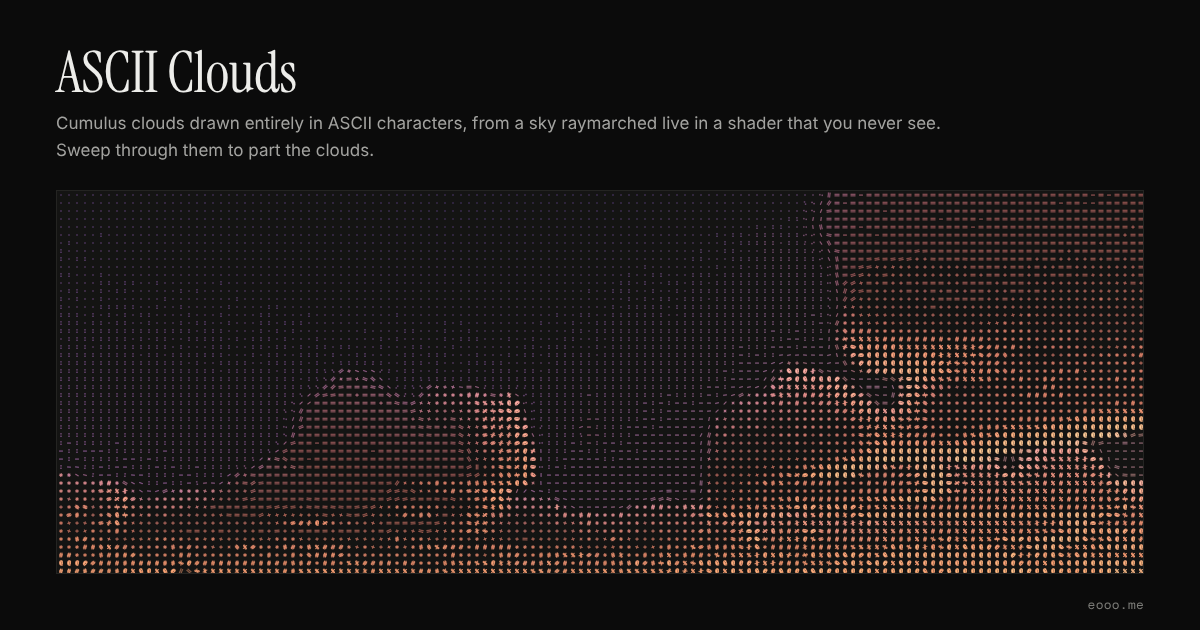
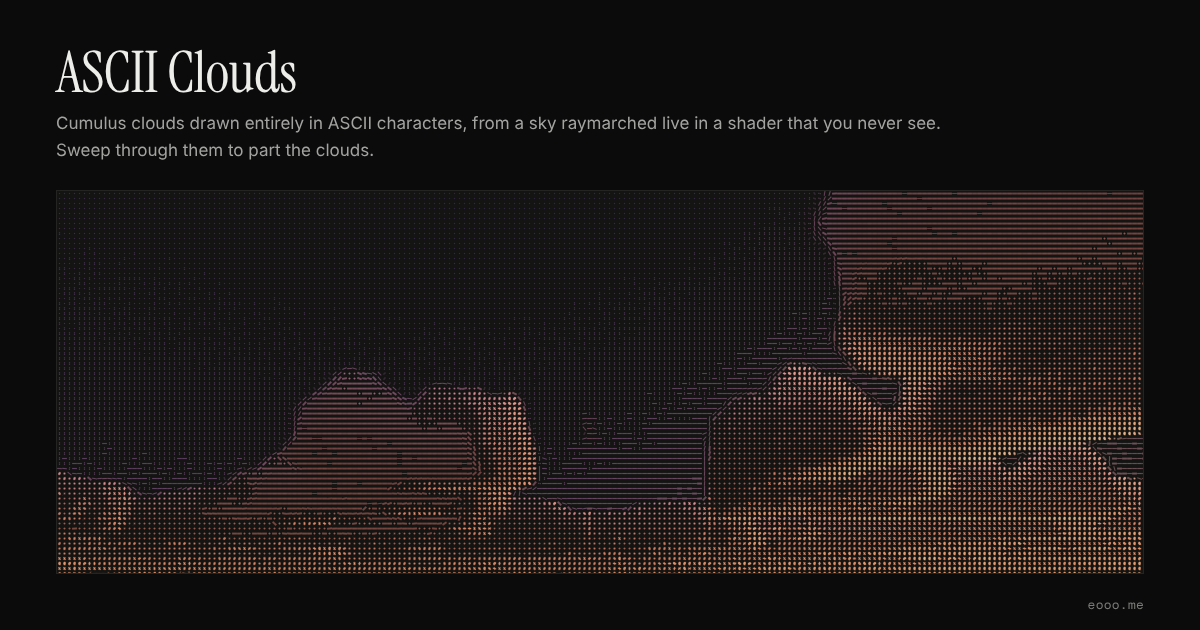
feat(lab): 五个字符画改成 5px 格子、横的字拉满整格，舞台不管主题都用深底 (#29)
浅色背景上字符画还是看不清，laken 比过 6px、5px 和深底以后定了 5px 加深底。
- 五个 ASCII 实验（Waves、Clouds、Coal、Sand、Black Hole）默认一格从 8px 改成 5px。
- 横的字 - ~ = 连描边一起拉到正好一格宽，左右两格首尾相接，连成一整道。
- index.md 加 dark 开关：写了 dark: true 的实验，舞台在服务端就带上 .always-dark，
  global.css 里手动深色那组颜色同时给它，舞台不管主题都是深底，实验一直按深色那套画。五个 ASCII 实验都开着。
- 同步改了 README、五个 prompt、og.mjs 的注释，重截五张分享图。

Claude-Session: https://claude.ai/code/session_01AtSjXJX7xpdrjdmPy7ukhw

diff --git a/src/labs/ascii-clouds/clouds.js b/src/labs/ascii-clouds/clouds.js
@@ -6,9 +6,9 @@
      2. 云（clouds）：镜头站在地上往前上方看，画面最下沿刚好是地平线，整块都是天。每个像素往天上打一条光线，
         在 1 到 2.6 公里高的云层里走 48 步：云底平、云顶圆（云越厚顶越高），再用一张 32³ 的立体噪声（几层 Worley 反过来，
         一团一团鼓起来的）把边咬碎；每步往太阳那边再取三个点，算这里被挡掉多少光，加上天光，远处被雾抹成地平线的颜色。
-        这张图只画到「一格两个像素」那么细（字一格 8px，再细也看不出来），比整屏画便宜几十倍。
+        这张图只画到「一格两个像素」那么细（字一格 5px，再细也看不出来），比整屏画便宜几十倍。
         底稿存颜色和这一格有多少云。
-     3. 合成（composite）：整块切成 8px 见方的格子，每格都有字，不留空：
+     3. 合成（composite）：整块切成 5px 见方的格子，每格都有字，不留空：
         按这一格的亮度从 . : - = + * # % @ 里挑（越亮越浓），天是淡的点，云是浓的字；
         字顺着明暗的等高线转，云边一圈的字绕着云走，跟海浪里字顺着浪头转是一个做法。
         深色主题是黄昏：太阳贴着地平线，云被照成金色、粉色，背光的地方是紫的，字就用底稿的颜色；
@@ -96,7 +96,7 @@ function makeDetail(n = 32) {   // 返回 { data, n }，传给显卡见 create()
 }
 
 // ---------- 字的图集 ----------
-// 一行 9 格，一格 64 见方（字要转，格子得是正方形），由淡到浓：. : - = + * # % @。每个字按墨迹居中，横线稍微拉宽一点，再描一圈边，笔画粗一点
+// 一行 9 格，一格 64 见方（字要转，格子得是正方形），由淡到浓：. : - = + * # % @。每个字按墨迹居中，横线 - = 拉满整格、左右首尾相接，再描一圈边，笔画粗一点
 const GLYPHS = [".", ":", "-", "=", "+", "*", "#", "%", "@"];
 const GROOVE = 64, GROOVE_LIFE = 4;   // 拨开的沟最多记几个点、一个点留几秒
 const T = 64;
@@ -109,11 +109,12 @@ function drawAtlas(c, stroke = [3, 3]) {   // stroke：横线 - =、别的字的
   GLYPHS.forEach((ch, i) => {
     const m = g.measureText(ch);
     const l = m.actualBoundingBoxLeft, r = m.actualBoundingBoxRight, up = m.actualBoundingBoxAscent, dn = m.actualBoundingBoxDescent;
-    const sx = ch === "-" || ch === "=" ? Math.max(1, Math.min(1.5, (0.8 * T) / (l + r))) : 1;
+    const lw = ch === "-" || ch === "=" ? stroke[0] : stroke[1];
+    const sx = ch === "-" || ch === "=" ? Math.max(1, T / (l + r + lw)) : 1;   // 横线连描边一起拉到正好一格宽：左右两格的字首尾相接，连成一整道
     g.save();
     g.translate(i * T + T / 2, T / 2); g.scale(sx, 1);
     const x = -(r - l) / 2, y = (up - dn) / 2;
-    g.lineWidth = ch === "-" || ch === "=" ? stroke[0] : stroke[1];
+    g.lineWidth = lw;
     g.fillText(ch, x, y); g.strokeText(ch, x, y);
     g.restore();
   });
@@ -325,7 +326,7 @@ const COMP_FS = /* glsl */ `
  * @param {HTMLCanvasElement} canvas
  * @param {{ period?: number, cell?: number, fps?: number }} [opts]
  */
-function create(canvas, { period = 12000, cell = 8, fps = 30 } = {}) {
+function create(canvas, { period = 12000, cell = 5, fps = 30 } = {}) {
   const gl = context(canvas);   // 没有 WebGL2 就抛错，交给调用的人接
   const software = softwareGL(gl);
   const motion = matchMedia("(prefers-reduced-motion: reduce)");

diff --git a/src/labs/ascii-waves/waves.js b/src/labs/ascii-waves/waves.js
@@ -6,7 +6,7 @@
         水的亮度（浪顶比浪谷亮，迎着光的浪面、反光更亮，远处被雾抹到中间）、浪头在画面上的走向、浪花有多浓。
         浪花只在三道最大的浪的浪尖上一簇一簇地起，往后拖一段渐淡的尾巴，每簇自己冒出来、再散掉；
         浪尖挤到一起（雅可比行列式变小）的地方、手划过的尾迹上也有。
-     2. 合成（composite）：整块切成 8px 见方的格子，每格都有字，不留空：
+     2. 合成（composite）：整块切成 5px 见方的格子，每格都有字，不留空：
         浪花够浓的格子画浪花的字 . : * o @（越浓越大），深色主题是白的，浅色主题是留白里淡淡的蓝，不转；浪花边上零星撒几个点当飞沫。
         别的格子画水：按亮度从 - ~ = 里挑，颜色沿一条色带走（深色主题越亮越浓，由深蓝到浅蓝；浅色主题反过来越暗越浓，由浅灰蓝到深蓝），
         字再转到浪头的走向上，一道道浪就被横着的字描出来，尾迹推出去的浪上的字也顺着那道浪转，
@@ -94,8 +94,8 @@ function makeWaves(period) {
 }
 
 // ---------- 字的图集 ----------
-// 一行 8 格，一格 64 见方（字要转，格子得是正方形）。前 3 个是水，由淡到浓 - ~ =，横着拉宽，一格接一格连成一道道浪；
-// 后 5 个是浪花，由淡到浓 . : * o @，不拉宽。每个字按墨迹居中，再描一圈边，笔画粗一点
+// 一行 8 格，一格 64 见方（字要转，格子得是正方形）。前 3 个是水，由淡到浓 - ~ =，横着拉满整格，左右首尾相接，连成一道道浪；
+// 后 5 个是浪花，由淡到浓 . : * o @，不拉。每个字按墨迹居中，再描一圈边，笔画粗一点
 const GLYPHS = ["-", "~", "=", ".", ":", "*", "o", "@"], WATER = 3;
 const T = 64;
 function drawAtlas(c, stroke = [4.5, 3]) {
@@ -107,11 +107,12 @@ function drawAtlas(c, stroke = [4.5, 3]) {
   GLYPHS.forEach((ch, i) => {
     const m = g.measureText(ch);
     const l = m.actualBoundingBoxLeft, r = m.actualBoundingBoxRight, up = m.actualBoundingBoxAscent, dn = m.actualBoundingBoxDescent;
-    const sx = i < WATER ? Math.max(1, Math.min(1.8, (0.84 * T) / (l + r))) : 1;
+    const lw = i < WATER ? stroke[0] : stroke[1];   // 水的字是细线，描粗一点才压得住整块
+    const sx = i < WATER ? Math.max(1, T / (l + r + lw)) : 1;   // 横线连描边一起拉到正好一格宽：左右两格的字首尾相接，连成一整道
     g.save();
     g.translate(i * T + T / 2, T / 2); g.scale(sx, 1);
     const x = -(r - l) / 2, y = (up - dn) / 2;
-    g.lineWidth = i < WATER ? stroke[0] : stroke[1];   // 水的字是细线，描粗一点才压得住整块
+    g.lineWidth = lw;
     g.fillText(ch, x, y); g.strokeText(ch, x, y);
     g.restore();
   });
@@ -364,7 +365,7 @@ function lookAt(eye, at) {
  * @param {HTMLCanvasElement} canvas
  * @param {{ period?: number, cell?: number, fps?: number }} [opts]
  */
-function create(canvas, { period = 12000, cell = 8, fps = 30 } = {}) {
+function create(canvas, { period = 12000, cell = 5, fps = 30 } = {}) {
   const gl = context(canvas);   // 没有 WebGL2 就抛错，交给调用的人接
   const software = softwareGL(gl);
   const motion = matchMedia("(prefers-reduced-motion: reduce)");

diff --git a/src/labs/ascii-coal/coal.js b/src/labs/ascii-coal/coal.js
@@ -9,7 +9,7 @@
         朝着它的面一块块闪亮，亮面跟着光滑过去；斜着的面映着一点天光；鼠标是第二盏灯，悬在煤上，跟着鼠标走。
         越远越暗，远处没进黑里。缝里住着冷的蓝光：平时只有几处亮，沿着缝慢慢挪，把缝两边的煤块底下也映蓝。
         底稿存三样：亮度、蓝光有多亮、字该朝哪个方向放（煤面的等高线投到画面上，存成二倍角）。
-     3. 合成（composite）：整块切成 8px 见方的格子，每格都有字，不留空。跟 ASCII Waves 一个做法：
+     3. 合成（composite）：整块切成 5px 见方的格子，每格都有字，不留空。跟 ASCII Waves 一个做法：
         煤面按亮度从 - = # 里挑，颜色沿一条色带走，字再转到等高线的走向上，同一个面上的字朝一个方向，换一个面就换一个方向，
         一块块煤的棱角就被字描出来；蓝光把字染蓝，最亮的地方（裂开时炸开的那一下）是不转的 . : * o @。
         画布是透明的，字以外露出网页自己的底色。
@@ -169,8 +169,8 @@ const terrain = (T) => /* glsl */ `
 `;
 
 // ---------- 字的图集 ----------
-// 一行一格 64 见方（字要转，格子得是正方形）。前 2 个是煤面，由淡到浓 - =，横着拉宽，一格接一格连成一道道线；
-// 后 5 个是光，由弱到强 . : * o @，不拉宽。每个字按墨迹居中，再描一圈边，笔画粗一点
+// 一行一格 64 见方（字要转，格子得是正方形）。前 2 个是煤面，由淡到浓 - =，横着拉满整格，左右首尾相接，连成一道道线；
+// 后 5 个是光，由弱到强 . : * o @，不拉。每个字按墨迹居中，再描一圈边，笔画粗一点
 const GLYPHS = ["-", "=", ".", ":", "*", "o", "@"], BODY = 2;
 const T = 64;
 function drawAtlas(c, stroke = [4.5, 3]) {
@@ -183,11 +183,12 @@ function drawAtlas(c, stroke = [4.5, 3]) {
   GLYPHS.forEach((ch, i) => {
     const m = g.measureText(ch);
     const l = m.actualBoundingBoxLeft, r = m.actualBoundingBoxRight, up = m.actualBoundingBoxAscent, dn = m.actualBoundingBoxDescent;
-    const sx = i < BODY ? Math.max(1, Math.min(1.8, (0.84 * T) / (l + r))) : 1;
+    const lw = i < BODY ? stroke[0] : stroke[1];   // 煤面的字是细线，描粗一点才压得住整块
+    const sx = i < BODY ? Math.max(1, T / (l + r + lw)) : 1;   // 横线连描边一起拉到正好一格宽：左右两格的字首尾相接，连成一整道
     g.save();
     g.translate(i * T + T / 2, T / 2); g.scale(sx, 1);
     const x = -(r - l) / 2, y = (up - dn) / 2;
-    g.lineWidth = i < BODY ? stroke[0] : stroke[1];   // 煤面的字是细线，描粗一点才压得住整块
+    g.lineWidth = lw;
     g.fillText(ch, x, y); g.strokeText(ch, x, y);
     g.restore();
   });
@@ -453,7 +454,7 @@ const compFS = (T) => /* glsl */ `
  * @param {HTMLCanvasElement} canvas
  * @param {{ period?: number, cell?: number, fps?: number }} [opts]
  */
-function create(canvas, { period = 12000, cell = 8, fps = 30 } = {}) {
+function create(canvas, { period = 12000, cell = 5, fps = 30 } = {}) {
   const P = DEF;
   const gl = context(canvas);   // 没有 WebGL2 就抛错，交给调用的人接
   const software = softwareGL(gl);

diff --git a/src/labs/ascii-sand/sand.js b/src/labs/ascii-sand/sand.js
@@ -7,7 +7,7 @@
         太阳低低地挂在左后方：朝着镜头的迎风坡亮，背风坡背着光，沙丘的影子拖得很长（往太阳那边走几步看挡没挡住）；
         越远越被沙尘的雾抹平，到地平线跟天接上。棱上不时被风扬起一缕缕沙，顺着风往下飘。
         底稿存三样：亮度、扬起的沙有多少、字该朝哪个方向放（沙纹的走向，没有沙纹就顺着沙丘的等高线，投到画面上，存成二倍角）。
-     2. 合成（composite）：整块切成 8px 见方的格子，每格都有字，不留空。跟 ASCII Waves 一个做法：
+     2. 合成（composite）：整块切成 5px 见方的格子，每格都有字，不留空。跟 ASCII Waves 一个做法：
         沙按亮度从 - ~ = 里挑，颜色沿一条色带走，字再转到沙纹的走向上，一道道沙纹就被字描出来，跟着透视往远处收；
         扬起来的沙是另一个颜色的 . : *，不转。画布是透明的，字以外露出网页自己的底色。
 
@@ -130,8 +130,8 @@ function duneH(x, z) {
 }
 
 // ---------- 字的图集 ----------
-// 一行一格 64 见方（字要转，格子得是正方形）。前 3 个是沙，由淡到浓 - ~ =，横着拉宽，一格接一格连成一道道沙纹；
-// 后 3 个是扬起来的沙，由淡到浓 . : *，不拉宽。每个字按墨迹居中，再描一圈边，笔画粗一点
+// 一行一格 64 见方（字要转，格子得是正方形）。前 3 个是沙，由淡到浓 - ~ =，横着拉满整格，左右首尾相接，连成一道道沙纹；
+// 后 3 个是扬起来的沙，由淡到浓 . : *，不拉。每个字按墨迹居中，再描一圈边，笔画粗一点
 const GLYPHS = ["-", "~", "=", ".", ":", "*"], SAND = 3;
 const T = 64;
 function drawAtlas(c, stroke = [4.5, 3]) {
@@ -144,11 +144,12 @@ function drawAtlas(c, stroke = [4.5, 3]) {
   GLYPHS.forEach((ch, i) => {
     const m = g.measureText(ch);
     const l = m.actualBoundingBoxLeft, r = m.actualBoundingBoxRight, up = m.actualBoundingBoxAscent, dn = m.actualBoundingBoxDescent;
-    const sx = i < SAND ? Math.max(1, Math.min(1.8, (0.84 * T) / (l + r))) : 1;
+    const lw = i < SAND ? stroke[0] : stroke[1];   // 沙的字是细线，描粗一点才压得住整块
+    const sx = i < SAND ? Math.max(1, T / (l + r + lw)) : 1;   // 横线连描边一起拉到正好一格宽：左右两格的字首尾相接，连成一整道
     g.save();
     g.translate(i * T + T / 2, T / 2); g.scale(sx, 1);
     const x = -(r - l) / 2, y = (up - dn) / 2;
-    g.lineWidth = i < SAND ? stroke[0] : stroke[1];   // 沙的字是细线，描粗一点才压得住整块
+    g.lineWidth = lw;
     g.fillText(ch, x, y); g.strokeText(ch, x, y);
     g.restore();
   });
@@ -405,7 +406,7 @@ const COMP_FS = /* glsl */ `
  * @param {HTMLCanvasElement} canvas
  * @param {{ period?: number, cell?: number, fps?: number }} [opts]
  */
-function create(canvas, { period = 12000, cell = 8, fps = 30 } = {}) {
+function create(canvas, { period = 12000, cell = 5, fps = 30 } = {}) {
   const gl = context(canvas);   // 没有 WebGL2 就抛错，交给调用的人接
   const software = softwareGL(gl);
   const motion = matchMedia("(prefers-reduced-motion: reduce)");

diff --git a/src/labs/ascii-black-hole/hole.js b/src/labs/ascii-black-hole/hole.js
@@ -9,7 +9,7 @@
         盘上一道道气流按开普勒转：里圈快、外圈慢。
         底稿存三样：亮度、星星有多亮、字该朝哪个方向放（气体绕着转的方向，按屏幕上算的，
         所以绕到黑洞上面的那道光环，字也跟着绕过去），方向存成二倍角。
-     2. 合成（composite）：整块切成 8px 见方的格子。跟另外几个字符画一个做法：
+     2. 合成（composite）：整块切成 5px 见方的格子。跟另外几个字符画一个做法：
         盘按亮度从 - ~ = 里挑，颜色沿一条色带走，字再转到气体的流向上，一圈圈轨道就被字描出来；
         星星是另一个颜色的 . + *，不转；黑洞和空的天上没有字，露出网页自己的底色。
 
@@ -60,8 +60,8 @@ const COLORS = {
 };
 
 // ---------- 字的图集 ----------
-// 一行一格 64 见方（字要转，格子得是正方形）。前 3 个是盘，由淡到浓 - ~ =，横着拉宽，一格接一格连成一道道弧；
-// 后 3 个是星星，由暗到亮 . + *，不拉宽。每个字按墨迹居中，再描一圈边，笔画粗一点
+// 一行一格 64 见方（字要转，格子得是正方形）。前 3 个是盘，由淡到浓 - ~ =，横着拉满整格，左右首尾相接，连成一道道弧；
+// 后 3 个是星星，由暗到亮 . + *，不拉。每个字按墨迹居中，再描一圈边，笔画粗一点
 const GLYPHS = ["-", "~", "=", ".", "+", "*"], DISK = 3;
 const T = 64;
 function drawAtlas(c) {
@@ -74,11 +74,12 @@ function drawAtlas(c) {
   GLYPHS.forEach((ch, i) => {
     const m = g.measureText(ch);
     const l = m.actualBoundingBoxLeft, r = m.actualBoundingBoxRight, up = m.actualBoundingBoxAscent, dn = m.actualBoundingBoxDescent;
-    const sx = i < DISK ? Math.max(1, Math.min(1.8, (0.84 * T) / (l + r))) : 1;
+    const lw = i < DISK ? 4.5 : 3;
+    const sx = i < DISK ? Math.max(1, T / (l + r + lw)) : 1;   // 横线连描边一起拉到正好一格宽：左右两格的字首尾相接，连成一整道
     g.save();
     g.translate(i * T + T / 2, T / 2); g.scale(sx, 1);
     const x = -(r - l) / 2, y = (up - dn) / 2;
-    g.lineWidth = i < DISK ? 4.5 : 3;
+    g.lineWidth = lw;
     g.fillText(ch, x, y); g.strokeText(ch, x, y);
     g.restore();
   });
@@ -295,7 +296,7 @@ const compFS = () => /* glsl */ `
  * @param {HTMLCanvasElement} canvas
  * @param {{ period?: number, cell?: number, fps?: number }} [opts]
  */
-function create(canvas, { period = 12000, cell = 8, fps = 30 } = {}) {
+function create(canvas, { period = 12000, cell = 5, fps = 30 } = {}) {
   const gl = context(canvas);   // 没有 WebGL2 就抛错，交给调用的人接
   const software = softwareGL(gl);
   const motion = matchMedia("(prefers-reduced-motion: reduce)");

diff --git a/src/content.config.ts b/src/content.config.ts
@@ -33,6 +33,7 @@ const labs = defineCollection({
     date: z.coerce.date(),            // 做出来的日子
     inspiration: z.url().optional(), // 照着谁的设计做的
     wip: z.boolean().default(false),  // 还没做完：卡片上不放组件，也不生成详情页
+    dark: z.boolean().default(false), // 舞台不管浅色深色都是深底，实验里也按深色画（字符画这种在浅底上发虚的）
     order: z.number(),                // 整体按 date 新的在前，同一天的按它排，越小越靠前
     prompt: z.string(),               // 详情页上的 Prompt：拷给 AI 就能照着做出这个实验的一段话
   }),

diff --git a/src/styles/global.css b/src/styles/global.css
@@ -37,6 +37,7 @@
 }
 
 /* 配色。浅色是默认；深色两处写：跟随系统（没手动选过浅色时），和手动选了深色。
+   手动选了深色那一处同时给 .always-dark：不管主题都用深色的一块（比如字符画实验的舞台），整块里的颜色都换成深色那几档。
    灰是略带暖的中性灰，强调色只有一个：钴蓝，只给链接、当前位置和字符画里被搅动的字。 */
 :root {
   --bg: #F7F7F5;
@@ -76,7 +77,8 @@
     color-scheme: dark;
   }
 }
-:root[data-theme="dark"] {
+:root[data-theme="dark"],
+.always-dark {
   --bg: #0B0B0B;
   --bg-2: #141413;
   --fg: #EDEDEA;

diff --git a/README.md b/README.md
@@ -40,7 +40,7 @@ pnpm check      # 类型检查
 ## 加一个实验
 
 1. 建目录 `src/labs/<slug>/`，`slug` 就是网址里那段（`/lab/<slug>/`），用小写和短横线。
-2. 写 `Demo.tsx`，默认导出一个 React 组件。根元素写 `className="lab-root <自己的类名>"`：`lab-root` 让它撑满舞台、内容居中，颜色、圆角、阴影都从它上面的变量取（见下面「实验的样子」）。舞台在卡片上高 280px，详情页上撑满第一屏剩下的高度（宽 1440、高 900 的窗口里大约 1200×580，手机上 360×500 上下），底色跟着主题走（浅色是浅灰，深色是深灰）。样式写在同目录的 `style.css`，在 `Demo.tsx` 里 `import "./style.css"`，选择器都挂在自己的类名下面（`.folder-lab .front`），不写裸的 `button`、`p`。图标从 `../_kit/icons` 拿，要用 WebGL2 画的从 `../_kit/gl.js` 拿样板（建上下文、编着色器、离屏图这些）。图片放 `assets/`，引用写 `import cover from "./assets/cover.webp?url"`（带 `?url` 拿到的是地址；不带的话 Astro 给的是一个对象，`<img src>` 会变成 `[object Object]`）。
+2. 写 `Demo.tsx`，默认导出一个 React 组件。根元素写 `className="lab-root <自己的类名>"`：`lab-root` 让它撑满舞台、内容居中，颜色、圆角、阴影都从它上面的变量取（见下面「实验的样子」）。舞台在卡片上高 280px，详情页上撑满第一屏剩下的高度（宽 1440、高 900 的窗口里大约 1200×580，手机上 360×500 上下），底色跟着主题走（浅色是浅灰，深色是深灰）；`index.md` 写了 `dark: true` 的，不管主题都是深灰的底，实验里读到的 `color-scheme` 也是深色，就一直按深色那套画。样式写在同目录的 `style.css`，在 `Demo.tsx` 里 `import "./style.css"`，选择器都挂在自己的类名下面（`.folder-lab .front`），不写裸的 `button`、`p`。图标从 `../_kit/icons` 拿，要用 WebGL2 画的从 `../_kit/gl.js` 拿样板（建上下文、编着色器、离屏图这些）。图片放 `assets/`，引用写 `import cover from "./assets/cover.webp?url"`（带 `?url` 拿到的是地址；不带的话 Astro 给的是一个对象，`<img src>` 会变成 `[object Object]`）。
 3. 写 `index.md`：
 
    ```md
@@ -51,6 +51,7 @@ pnpm check      # 类型检查
    date: 2025-01-08         # 做出来的日子：卡片上显示年月（Jan 2025），详情页显示月份全称
    inspiration: https://…   # 照着谁的设计做的，没有就不写
    wip: true                # 还没做完：卡片上画斜条纹，不挂组件，不生成详情页
+   dark: true               # 舞台不管浅色深色都是深底。五个 ASCII 实验都开着：细的字在浅灰底上发虚（2026-11-17）
    order: 5                 # 同一天做的按它排，越小越靠前
    prompt: |-               # 详情页上的 Prompt，英文，分段，保留换行（所以是 |-，不是 >-）
      Add a folder to my project that opens and fans out the photos inside when you point at it. …
@@ -95,7 +96,7 @@ pnpm check      # 类型检查
 ## 设计约定
 
 - 直角、不用阴影，区块之间用 1px 细线分开。首页每一节左边是等宽小字的节名，宽屏上跟着滚动停在顶上。
-- 黑白灰为主，略带暖。强调色只有一个钴蓝，只给链接、当前状态和字符画里被搅动的字：浅色主题 `#2F4BE8`（在底色上对比度 6.0），深色主题 `#8597FF`（7.4）。原来是炭火的橙，2026-10-27 laken 嫌它发黄，换成了蓝。灰的几档都过 4.5。值在 `global.css` 开头，深色写了两处（跟随系统、手动选了深色），改要一起改。
+- 黑白灰为主，略带暖。强调色只有一个钴蓝，只给链接、当前状态和字符画里被搅动的字：浅色主题 `#2F4BE8`（在底色上对比度 6.0），深色主题 `#8597FF`（7.4）。原来是炭火的橙，2026-10-27 laken 嫌它发黄，换成了蓝。灰的几档都过 4.5。值在 `global.css` 开头，深色写了两处（跟随系统、手动选了深色），改要一起改；手动选了深色那一处同时管 `.always-dark`，就是不管主题都用深色的一块（`dark: true` 的实验舞台）。
 - 大标题 Instrument Serif（第二行斜体），标签、日期、导航这些小字 DM Mono，正文用系统字体。两款都是 SIL OFL 1.1，许可证在 `public/fonts/OFL.txt`，文件是从 sooty 官网拷来的拉丁字母子集。字体都放在本站，不从 Google Fonts 拿。
 - 浅色、深色跟随系统，顶栏右边的按钮可以手动换，记在 `localStorage` 的 `theme` 里；`<head>` 最前面那段脚本在页面画出来之前就定好，不闪。
 - 页面上只有淡入和短距离的位移（`.rise`），系统开了「减弱动态效果」就不动。一直在动的只有首屏的字符画。
@@ -127,7 +128,7 @@ pnpm check      # 类型检查
 - **Astro**（静态生成）：比较过留在 Vite + React 单页、Next.js 静态导出、Eleventy。原来的单页把所有东西都放在一个 JS 里，HTML 是空的，搜索引擎和分享卡片都看不到内容，首屏要等 React 下载完；Next.js 静态导出每页都带着 React 的运行时；Eleventy 页面很轻，但实验是 React 组件，要另想办法挂。Astro 默认页面不带 JS，又能把 React 组件当「岛」按需挂，正好：首页本身只有主题按钮和字符画两段小脚本，React 和实验的代码等滚到实验那一节才下载，一个实验一个文件。sooty 的官网也是 Astro，用法一样。
 - **React 只给实验用**：实验原来就是 React 写的，拖动、切换这些交互用 React 写也顺手，源码公开给人看。2026-10-27 重写时样式换成了普通 CSS 和共用的 `_kit/kit.css`，去掉了 Motion、Tabler 图标和 Tailwind 的类名（见「实验的样子」）。网站本身（顶栏、首页、详情页）全是 Astro 组件和普通 CSS。
 - **Tailwind 只扫 `src/labs/`**：现在的实验都不用它的类名，留着主要是 preflight 当整站的样式重置；以后的实验想用类名也能用。网站自己的样式不用 Tailwind，写在组件的 `<style>` 里。
-- **ASCII Waves、ASCII Clouds、ASCII Coal、ASCII Sand、ASCII Black Hole 直接写 WebGL2，不引 3D 库**：五个实验都是着色器在离屏图里画一个真的 3D 场景当底稿（海：透视镜头、12 万个点的海面网格、深度；云：往天上打光线，在云层里一步步走；煤：斜着往下看一床煤块，按 Voronoi 分成一块块，每块的高度连同坡度一起算，光线步进只在尺寸变了时算一次、存下落点，每帧只重新打光，2026-11-05 照 laken 给的一块裂开的煤的图加的；沙：站在沙丘上往地平线看，每个像素往高度场打光线，迎风坡缓、背风坡陡，迎风坡上有沙纹，低低的太阳往太阳那边走几步算影子，2026-11-06 加的；黑洞：每个像素的光线按史瓦西黑洞的引力一步步弯着走，穿过吸积盘就加上盘在那儿的光，盘后面那一半被弯到黑洞上下成两道光环，2026-11-09 laken 要一个宇宙题材的，挑了黑洞），再全屏挑字，屏上只有字。五个实验挑字的做法一样：- ~ = 这类横的字转到浪头、沙纹、煤面等高线、气体绕着转的走向上，明暗主要靠颜色。黑洞的光线是弯的，字的方向没法从盘面直接投到屏幕上，改成按屏幕上「穿过盘面那一点的半径」的导数算，绕到黑洞上面的光环上字也跟着绕。煤和沙第一版是正对着、从正上方看的，缝和棱用不转的 ~ - \ | / 描（老式字符画的做法），laken 觉得跟海和云比差太多，2026-11-06 都改成了现在的透视镜头和转着的字。2026-11-04 先用 Three.js 写了海浪（laken 定的「全程用 Three.js 和 shader 实时渲染」），同一天做云的时候 laken 觉得不用 Three.js 也能一模一样，定了两个实验都改成原生 WebGL2。着色器本来就是自己写的，Three.js 只替我们做了镜头矩阵、离屏图、深度、mipmap 和「鼠标落在海面哪里」，这些在 `src/labs/_kit/gl.js`（建上下文、编着色器、按类型设 uniform、全屏三角形、离屏图、从 canvas 建贴图）和 `waves.js` 开头的两个矩阵函数里，一共一百多行。改完以后海浪的静止帧跟 Three.js 那版逐像素一样（深浅两种主题、1 倍和 2 倍屏都比过），海浪这个实验少下 540 KB（gzip 后 135 KB）。也看过：
+- **ASCII Waves、ASCII Clouds、ASCII Coal、ASCII Sand、ASCII Black Hole 直接写 WebGL2，不引 3D 库**：五个实验都是着色器在离屏图里画一个真的 3D 场景当底稿（海：透视镜头、12 万个点的海面网格、深度；云：往天上打光线，在云层里一步步走；煤：斜着往下看一床煤块，按 Voronoi 分成一块块，每块的高度连同坡度一起算，光线步进只在尺寸变了时算一次、存下落点，每帧只重新打光，2026-11-05 照 laken 给的一块裂开的煤的图加的；沙：站在沙丘上往地平线看，每个像素往高度场打光线，迎风坡缓、背风坡陡，迎风坡上有沙纹，低低的太阳往太阳那边走几步算影子，2026-11-06 加的；黑洞：每个像素的光线按史瓦西黑洞的引力一步步弯着走，穿过吸积盘就加上盘在那儿的光，盘后面那一半被弯到黑洞上下成两道光环，2026-11-09 laken 要一个宇宙题材的，挑了黑洞），再全屏挑字，屏上只有字。五个实验挑字的做法一样：- ~ = 这类横的字转到浪头、沙纹、煤面等高线、气体绕着转的走向上，明暗主要靠颜色。格子 5px 见方，横的字连描边一起拉到正好一格宽，左右两格首尾相接连成一整道（原来是 8px、拉到八成多宽，一段段断开的；2026-11-17 laken 嫌浅色背景上看不清，要格子密一点、铺满，6px 和 5px 比过以后选了 5px）。黑洞的光线是弯的，字的方向没法从盘面直接投到屏幕上，改成按屏幕上「穿过盘面那一点的半径」的导数算，绕到黑洞上面的光环上字也跟着绕。煤和沙第一版是正对着、从正上方看的，缝和棱用不转的 ~ - \ | / 描（老式字符画的做法），laken 觉得跟海和云比差太多，2026-11-06 都改成了现在的透视镜头和转着的字。2026-11-04 先用 Three.js 写了海浪（laken 定的「全程用 Three.js 和 shader 实时渲染」），同一天做云的时候 laken 觉得不用 Three.js 也能一模一样，定了两个实验都改成原生 WebGL2。着色器本来就是自己写的，Three.js 只替我们做了镜头矩阵、离屏图、深度、mipmap 和「鼠标落在海面哪里」，这些在 `src/labs/_kit/gl.js`（建上下文、编着色器、按类型设 uniform、全屏三角形、离屏图、从 canvas 建贴图）和 `waves.js` 开头的两个矩阵函数里，一共一百多行。改完以后海浪的静止帧跟 Three.js 那版逐像素一样（深浅两种主题、1 倍和 2 倍屏都比过），海浪这个实验少下 540 KB（gzip 后 135 KB）。也看过：
   - Three.js（0.186，MIT）：`PerspectiveCamera`、`RawShaderMaterial`、`WebGLRenderTarget`、`Raycaster` 正好都有，但只用到这几样，场景树、材质、灯光这些大半的代码用不上，却要整个下载。
   - OGL（1.0，Unlicense）：小，接口跟 Three.js 像，但 2025 年初以后没再发版。
   - regl（2.1，MIT）：函数式的写法很省，但只支持 WebGL1，着色器得改写成 GLSL 1.0，2024 年以后没再发版。

diff --git a/src/labs/ascii-coal/index.md b/src/labs/ascii-coal/index.md
@@ -3,6 +3,7 @@ title: ASCII Coal
 summary: A bed of coal drawn entirely in ASCII characters, from lumps lit live in a shader that you never see. Sweep across it and it cracks open, lit from within.
 tags: [WebGL, Shaders]
 date: 2026-11-05
+dark: true
 order: 11
 prompt: |-
   Add an ASCII coal bed to my project: a bed of faceted coal lumps seen at an angle, lit live in a WebGL2 shader and shown only as ASCII characters, where the pointer cracks it open and cold blue light leaks out. Use raw WebGL2 with no 3D library: one engine file, plus a thin component in my existing framework. The canvas is transparent and fills its container; don't change my page's styles.
@@ -27,8 +28,8 @@ prompt: |-
   - Render at 2 pixels per character cell into a mipmapped target, and read each cell from mip level 1.
 
   3. Characters
-  - Cut the canvas into 8 px cells. Every cell gets a character.
-  - Coal gets - = by brightness, turned along the stored direction, so each face is hatched in its own direction and the lumps' edges show where the direction changes. Stretch them to 0.84 of the cell's width so neighbours join. Read the direction from mip level 2, and guard the angle where the direction vector is zero, because atan(0, 0) is NaN on some GPUs.
+  - Cut the canvas into 5 px cells. Every cell gets a character.
+  - Coal gets - = by brightness, turned along the stored direction, so each face is hatched in its own direction and the lumps' edges show where the direction changes. Stretch them sideways until each one, outline included, is exactly a cell wide, so neighbours join end to end. Read the direction from mip level 2, and guard the angle where the direction vector is zero, because atan(0, 0) is NaN on some GPUs.
   - In dark mode, map brightness 0.04–0.5 across the glyphs and lift the darks with a power of 0.6, since coal is mostly dark. Turn the strokes in the darkest cells level, like the hatching in an engraving's shadows, and let only the lit faces follow their contours.
   - In light mode the ink sits on the shaded faces instead: map 0.04–0.65 (or half the faces wash out to pale grey and the lumps look hollow), let the inked faces follow their contours, and lay only the palest lit faces level. Lay the strokes level in the distance too, where the bed fades to paper.
   - Blue light tints the strokes and makes them denser. Where it is strongest (a crack's flash, a fresh split), use upright . : * o @ instead. In dark mode, scatter an upright * over the brightest highlights.

diff --git a/src/labs/ascii-sand/index.md b/src/labs/ascii-sand/index.md
@@ -3,6 +3,7 @@ title: ASCII Sand
 summary: A dune field drawn entirely in ASCII characters, from a desert lit live in a shader that you never see. Sweep across the sand to carve a groove that the wind slowly fills.
 tags: [WebGL, Shaders]
 date: 2026-11-06
+dark: true
 order: 12
 prompt: |-
   Add an ASCII dune field to my project: a desert seen from a camera standing on the dunes, lit live in a WebGL2 shader and shown only as ASCII characters, where the pointer carves grooves that the wind fills back in and a click pours a little pile of sand that the wind blows away. Use raw WebGL2 with no 3D library: one engine file, plus a thin component in my existing framework. The canvas is transparent and fills its container; don't change my page's styles.
@@ -25,8 +26,8 @@ prompt: |-
   - Render at 2 pixels per character cell into a mipmapped target, and read each cell from mip level 1.
 
   2. Characters
-  - Cut the canvas into 8 px cells. Every cell gets a character.
-  - Sand gets - ~ = by brightness, turned along the stored direction, so each ripple and dune is traced by sideways strokes that converge with the perspective. Stretch them to 0.84 of the cell's width so neighbours join into lines. Read the direction from a blurrier mip level (2.5) than the brightness, so it doesn't jitter with every small bump, and guard the angle where the direction vector is zero, because atan(0, 0) is NaN on some GPUs.
+  - Cut the canvas into 5 px cells. Every cell gets a character.
+  - Sand gets - ~ = by brightness, turned along the stored direction, so each ripple and dune is traced by sideways strokes that converge with the perspective. Stretch them sideways until each one, outline included, is exactly a cell wide, so neighbours join end to end into unbroken lines. Read the direction from a blurrier mip level (2.5) than the brightness, so it doesn't jitter with every small bump, and guard the angle where the direction vector is zero, because atan(0, 0) is NaN on some GPUs.
   - Map brightness 0.31–0.62 across the glyphs, push it through a gentle S-curve for contrast, and raise it to a power before picking the glyph (1.8 in dark mode), so most cells are the thin - and ~ and only the brightest get =. The colour ramp carries most of the tone.
   - Blown sand gets upright . : * in its own colour, with a few stray grains around it.
   - Draw the characters from a glyph atlas painted with the canvas 2D API in my site's monospace font, and repaint it once the font has loaded.

diff --git a/src/labs/ascii-black-hole/index.md b/src/labs/ascii-black-hole/index.md
@@ -3,6 +3,7 @@ title: ASCII Black Hole
 summary: A black hole drawn entirely in ASCII characters, from light bent live in a shader that you never see. Sweep across the disk to feed it, click to drop a star in.
 tags: [WebGL, Shaders]
 date: 2026-11-09
+dark: true
 order: 13
 prompt: |-
   Add an ASCII black hole to my project: a black hole with a glowing accretion disk, its light bent live in a WebGL2 shader and shown only as ASCII characters, where sweeping the pointer across the disk feeds it streaks of hot gas and a click drops in a star that gets torn apart. Use raw WebGL2 with no 3D library: one engine file, plus a thin component in my existing framework. The canvas is transparent and fills its container; don't change my page's styles.
@@ -24,8 +25,8 @@ prompt: |-
   - Render at 2 pixels per character cell into a mipmapped target, and read each cell from mip level 1.
 
   2. Characters
-  - Cut the canvas into 8 px cells. The hole and empty space get no character.
-  - The disk gets - ~ = by brightness, turned along the stored direction, so the orbits are traced by sideways strokes that bend around the hole. Stretch them to 0.84 of the cell's width so neighbours join into arcs. Read the direction from mip level 1.5, and guard the angle where the direction vector is zero, because atan(0, 0) is NaN on some GPUs.
+  - Cut the canvas into 5 px cells. The hole and empty space get no character.
+  - The disk gets - ~ = by brightness, turned along the stored direction, so the orbits are traced by sideways strokes that bend around the hole. Stretch them sideways until each one, outline included, is exactly a cell wide, so neighbours join end to end into unbroken arcs. Read the direction from mip level 1.5, and guard the angle where the direction vector is zero, because atan(0, 0) is NaN on some GPUs.
   - Map brightness 0.06–0.85 across the glyphs with a gentle S-curve, and raise it to a power before picking the glyph (1.4 in dark mode, 1.2 in light), so most cells are the thin - and ~ and only the brightest get =.
   - Where gas or a star the visitor added makes most of the light, lift the cell to at least 60% and tint it toward a hotter colour.
   - Stars get upright . + * in their own colour, only in cells with no disk.

diff --git a/src/labs/ascii-clouds/index.md b/src/labs/ascii-clouds/index.md
@@ -3,6 +3,7 @@ title: ASCII Clouds
 summary: Cumulus clouds drawn entirely in ASCII characters, from a sky raymarched live in a shader that you never see. Sweep through them to part the clouds.
 tags: [WebGL, Shaders]
 date: 2026-11-02
+dark: true
 order: 9
 prompt: |-
   Add an ASCII cloud sky to my project: cumulus clouds rendered live in a WebGL2 shader, shown only as ASCII characters, that part when the pointer sweeps through them. Use raw WebGL2 with no 3D library: one engine file, plus a thin component in my existing framework. The canvas is transparent and fills its container; don't change my page's styles.
@@ -18,9 +19,9 @@ prompt: |-
   - Render this draft at only 2 pixels per character cell into a mipmapped render target. Nobody sees it directly.
 
   2. Characters
-  - Cut the canvas into 8 px cells. Every cell gets a character; none is left empty.
+  - Cut the canvas into 5 px cells. Every cell gets a character; none is left empty.
   - Pick from . : - = + * # % @ by brightness. The sky uses only . : - and the clouds use the rest (light mode inks them differently, see Themes).
-  - Turn each character along the brightness contour, perpendicular to the gradient across neighbouring cells, so the strokes flow around each cloud. Guard the angle where the gradient is zero, because atan(0, 0) is NaN on some GPUs.
+  - Turn each character along the brightness contour, perpendicular to the gradient across neighbouring cells, so the strokes flow around each cloud. Stretch - and = sideways until each one, outline included, is exactly a cell wide, so the hatching joins end to end. Guard the angle where the gradient is zero, because atan(0, 0) is NaN on some GPUs.
   - Draw the characters from a glyph atlas painted with the canvas 2D API in my site's monospace font. Repaint it once the font has loaded.
 
   3. Themes
